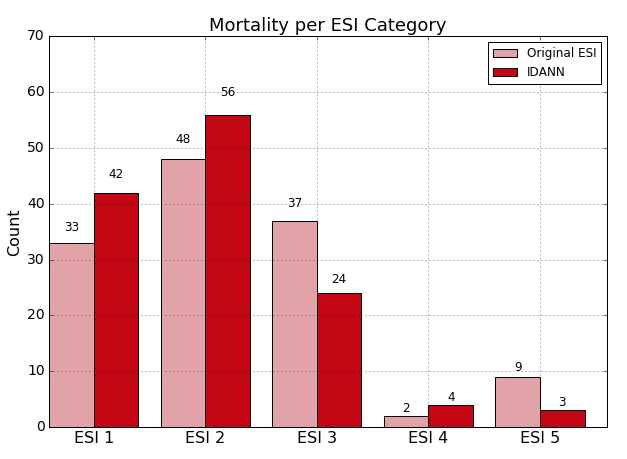
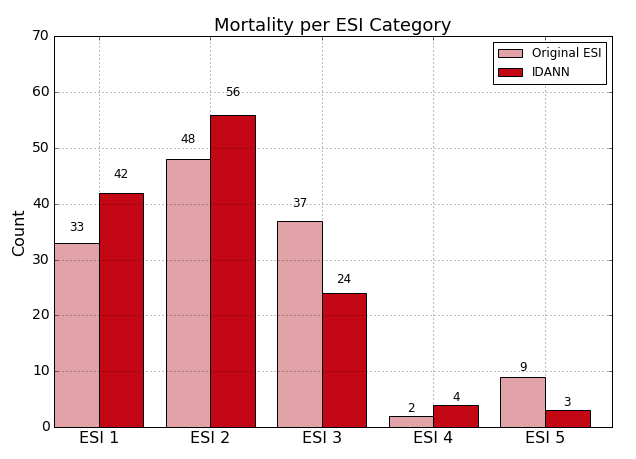
esi

diff --git a/index.html b/index.html
@@ -485,67 +485,78 @@
       <div class="container">
         <div class="row">
           <div class="col-lg-12 text-center">
-            <h2 class="section-heading text-uppercase bg-light">ESI Classification</h2>		
+            <h2 class="section-heading text-uppercase bg-light">ESI</h2>		
 	
             </div>
         </div>
 		
-		<div class="row">
+
+		
+		<div class="row ">
+	      <div class="col-md-12">
+            <h4 class="service-heading">ESI Assignment</h4>      
+          </div>	
+         </div>
+		 <div class="row">
           <div class="col-md-12">
 		  	   <p class="text-muted">
 					IDANN follows the official definition of ESI as closely as possible to ensure that 
 					its use conforms with established emergency department practices, 
 					thus minimizing the implementation risk and allowing for faster deployment with minimal disruption.
 				</p>	
-			   <p class="text-muted">	
+	
+				        		 <p class="text-muted">	
 					The actual ESI assignment process is two-fold. For ESI 1 and 2, it 
 					requires comparing the probability of critical outcome (CO) with a set of optimized thresholds. 
 					If the CO thresholds are not met, then the patient is assigned to 
 					ESI 3, 4 or 5 based on whether they require two or more resources, one resource, or no resources, respectively.
 				</p>
-				
 					
 		  </div>
         </div>
 		
+
+		 
+			<div class="row">		
+			<div class="col-md-1"> 
+			</div>   
+			<div class="col-md-5">
+			     <img src = "img/esi_calc.png"   class = "rounded img-fluid border" </img></br>
+
+			</div>	
+			<div class="col-md-5 text">
 		
-		
-		<div class="row">
-		
-		<div class="col-md-1"> 
-		</div>
-   
-		    <div class="col-md-5">
-		  	   <p class="text-muted small">
-                    <img src = "img/esi/patients_per_esi_category.png"   class = "rounded img-fluid" </img></br>
-					2010 data
-				</p>	
-		  </div>
-		  <div class="col-md-5">
-				<p class="text-muted">
-				The thresholds for ESI 1 and 2 are highly dependent on the size of the groups. 
+       
+							<p class="text-muted">
+				<span class="font-weight-bold">The thresholds for ESI 1 and 2 </span> are highly dependent on the size of the groups. 
 				We tested various category sizes and ultimately determined that assigning the top 2.5% most critical patients to ESI 1 
 				and the next 10% to ESI 2 produced the maximum true-positive rate while minimizing the false-negative rate of critical outcome. 
 				At the same time, we ensured that the absolute size of the two combined categories did not increase for these high-priority, 
 				resource-intensive groups. 
 				Specifically, we calculated these thresholds to be 0.8676 or greater for ESI 1 and between 0.6724 and 0.8676 (inclusive) for ESI 2.
-				</p>	
-				
-
-		  </div>
-		  
-		 <div class="col-md-1">   	 
-       		
-		</div>
+				</p>
+			
+			
+			</div>
+	  
+			<div class="col-md-1">          		
+			</div>		
+        </div>	
 		
-        </div>
-		
-			<div class="row">
-          <div class="col-md-12">
+		<div class="row ">
+	      <div class="col-md-12">
+            <h4 class="service-heading">Results</h4>    
 		  		<p class="text-muted">
 				In order to validate our models and assignment algorithm, we used the data from year 2010 as an 
-				additional test set. 
-				With this data set, which had not been seen by the model, we saw the critical outcome true-positive rate increase from 37.43% 
+				additional test set, which had not been seen by the model during training nor hyperparameters tuning.
+				&nbsp;</br>
+				</p>			
+          </div>	
+         </div>		
+					<div class="row">
+          <div class="col-md-12">
+		  		<p class="text-muted">
+				With this data set, we saw the critical outcome true-positive rate increase from 37.43% 
 				to 50.84% while the false-positive rate decreased from 11.22 to 9.76%, compared to the nurse-assigned rates. 
 				To put this into perspective we capture 37.4% more critical outcomes in our top two tiers. 
 				If we could extend this improvement to the national level, over a million more patients with critical outcomes 
@@ -579,13 +590,13 @@
 				 </div>	
 		</div>	
 		
-		<div class="row">
-		<div class="col-md-1"> 
-		</div>
-   
-		    <div class="col-md-5">
-		  	   
-          		<p class="text-muted text-right">
+
+		
+
+		
+		<div class="row">   
+		  <div class="col-md-12">
+		            		<p class="text-muted ">
 				&nbsp; </br> 
 				With respect to mortality, we were able to capture 98 out of 129 cases in these top ESI categories (76.0%) 
 				compared to 81 cases for the nurse assignments (62.8%). Similar improvement was seen for ICU admission--52.3% 
@@ -593,30 +604,45 @@
 			
 				</p>
 
-					
-		  </div>
-		  <div class="col-md-5 small">	 		    	 
-             <img src = "img/esi/mortality_per_esi_category.png"   class = "rounded img-fluid" </img></br>
-			2010 data			 
-		  </div>
-		  <div class="col-md-1"> 
-			</div>
-        </div>
+
+		</div>
+		</div>
 		
-		<div class="row">   
+		<div class="row">		
+			<div class="col-md-1"> 
+			</div>   
+			<div class="col-md-5">
+		  	   <p class="text-muted small">
+                    <img src = "img/esi/patients_per_esi_category.png"   class = "rounded img-fluid" </img></br>
+					2010 data
+				</p>	
+			</div>
+			<div class="col-md-5">
+				   <p class="text-muted small">
+		             <img src = "img/esi/mortality_per_esi_category.png"   class = "rounded img-fluid" </img></br>
+					2010 data			
+				</p>
+			</div>		  
+			<div class="col-md-1">          		
+			</div>		
+        </div>
+
+		
+			<div class="row">   
 		  <div class="col-md-12">
-			  				<p class="text-muted ">
-				&nbsp;</br>							
+		  			  	<p class="text-muted ">								
 				Overall, IDANN’s distribution of these outcomes represents an improvement compared to the original 
 				ESI assignment at the higher end of the ESI scale while also improving differentiation of at the ESI 3-5 ranges.
 				</p>
+
 		</div>
 		</div>
-		<div class="row">
+		
+		  		<div class="row">
    
 		  <div class="col-md-1">					
 		  </div>
-		  <div class="col-md-10 small"> 	
+		  <div class="col-md-10 text-muted small"> 	
             <img src = "img/esi/Critical_Outcome_ESI_distribution_.png"   class = "rounded img-fluid" </img></br>
 			2010 data
 		  </div>
@@ -624,15 +650,15 @@
 		  </div>
         </div>
 		
-			<div class="row">   
+					<div class="row">   
 		  <div class="col-md-12">
-			  				<p class="text-muted ">
-				&nbsp;</br>							
+			 <p class="text-muted ">							
 			Nonetheless, it is important to note that while IDANN provides a marked improvement compared to an unassisted triage practitioner, 
 			there is still a risk of potential misclassification, hence ensuring that the user reviews the assignment is critical.
 				</p>
 		</div>
 		</div>
+		
 				
 		<div class="row">
    
